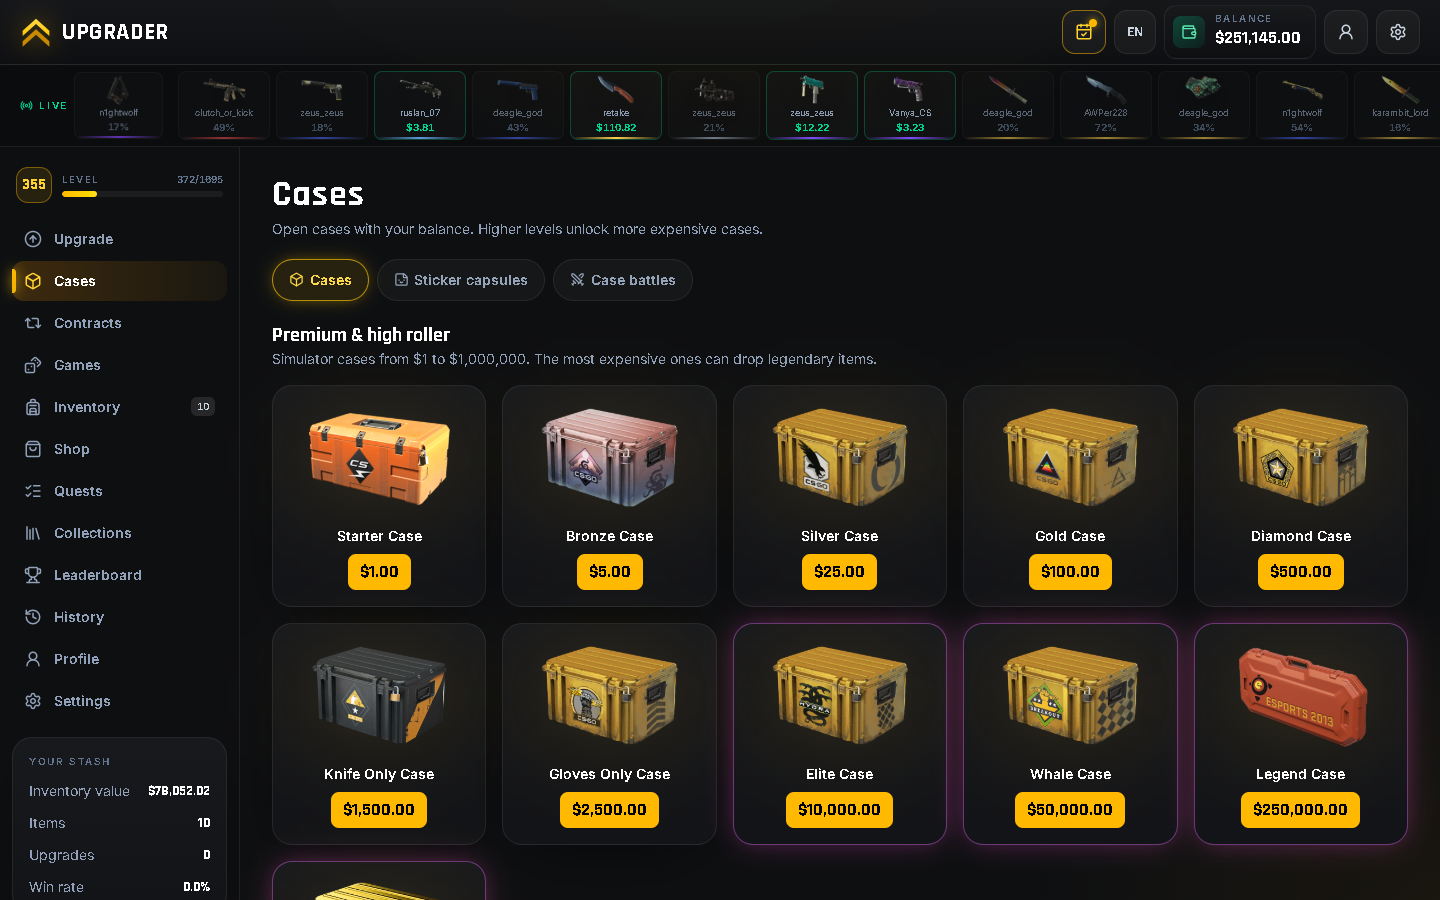
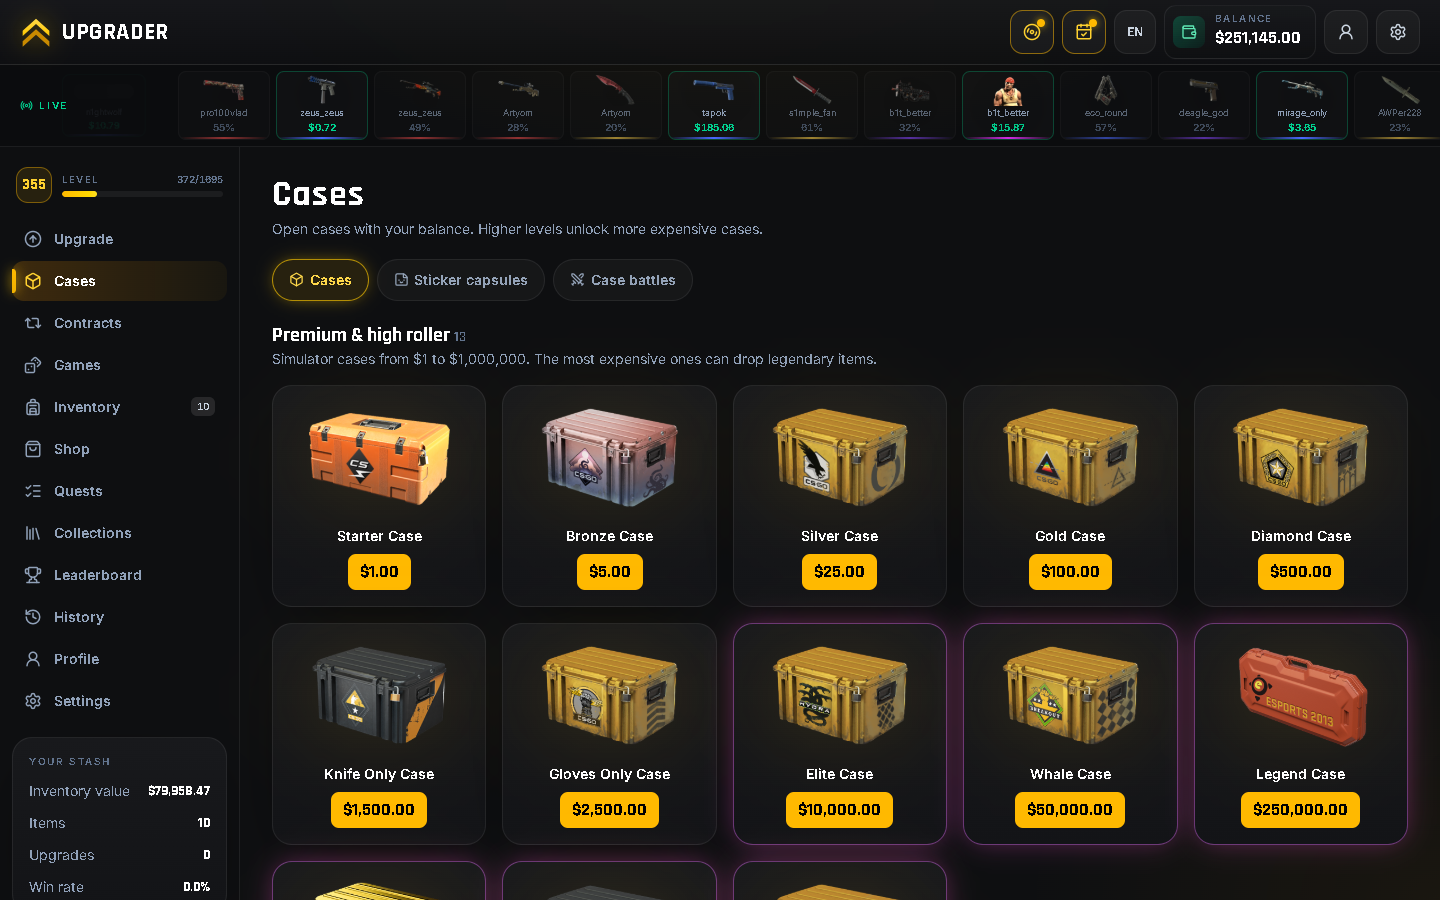
Refresh README and screenshots, fix premium case hint

diff --git a/src/i18n/ru.ts b/src/i18n/ru.ts
@@ -555,7 +555,7 @@ export const ru: Record<keyof typeof en, string> = {
 
   // additions: legendary items, official cases, jackpot modes
   'cases.premium': "Премиум и хайроллер",
-  'cases.premiumHint': "Кейсы симулятора от $1 до $1 000 000. Самые дорогие могут выдать легендарные предметы.",
+  'cases.premiumHint': "Кейсы симулятора от $1 до $100 000 000. Самые дорогие могут выдать легендарные предметы.",
   'cases.official': "Официальные кейсы CS2",
   'cases.officialHint': "Реальное содержимое и реальные шансы: Mil-Spec 79,92%, Restricted 15,98%, Classified 3,2%, Covert 0,64%, ★ нож или перчатки 0,26%. StatTrak™ 10%.",
   'games.duel': "Дуэль 1×1",

diff --git a/src/i18n/en.ts b/src/i18n/en.ts
@@ -553,7 +553,7 @@ export const en = {
 
   // additions: legendary items, official cases, jackpot modes
   'cases.premium': "Premium & high roller",
-  'cases.premiumHint': "Simulator cases from $1 to $1,000,000. The most expensive ones can drop legendary items.",
+  'cases.premiumHint': "Simulator cases from $1 to $100,000,000. The most expensive ones can drop legendary items.",
   'cases.official': "Official CS2 cases",
   'cases.officialHint': "Real contents and real odds: Mil-Spec 79.92%, Restricted 15.98%, Classified 3.2%, Covert 0.64%, ★ knife or gloves 0.26%. StatTrak™ 10%.",
   'games.duel': "Duel 1v1",

diff --git a/README.md b/README.md
@@ -47,7 +47,8 @@ A browser simulator of CS2 skin upgrades, cases, trade-up contracts and mini-gam
   - 3 color themes;
   - sound packs;
   - save export and import;
-  - installable as an app (PWA) with offline support.
+  - installable as an app (PWA) with offline support;
+  - a password-protected admin panel: full history of every money and item movement, rollbacks, restore points, money / item grants and a luck multiplier.
 
 | Shop & legends | Cases |
 |---|---|
